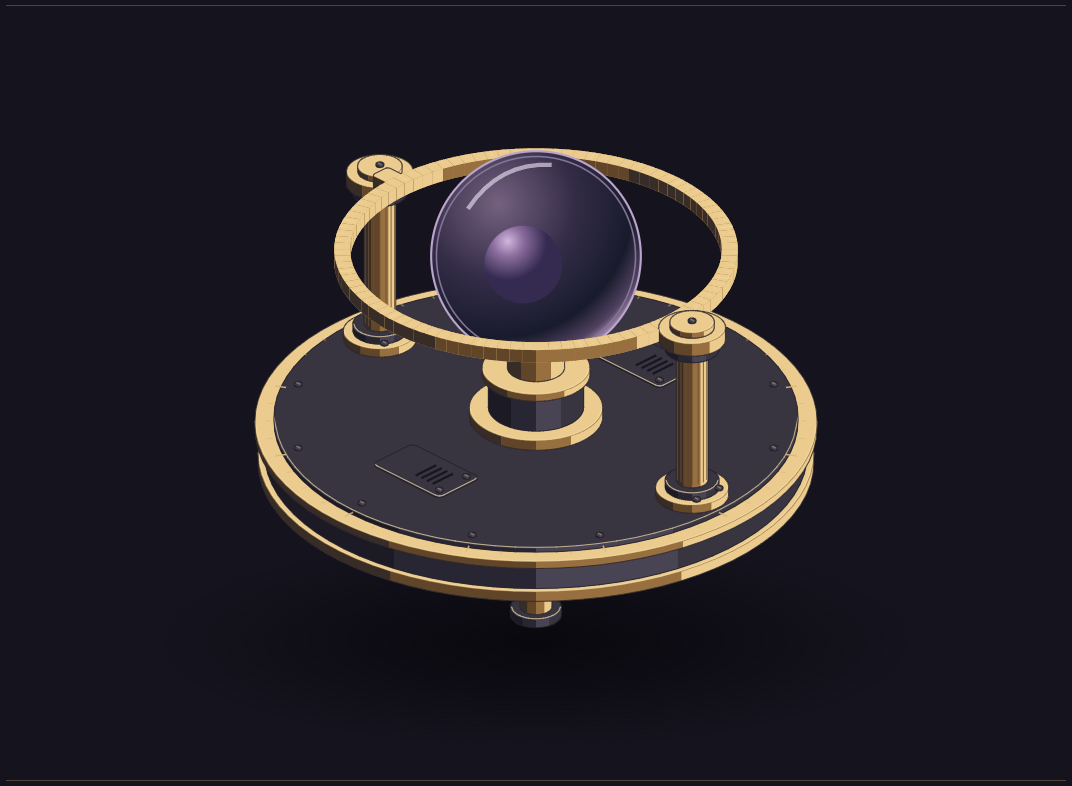
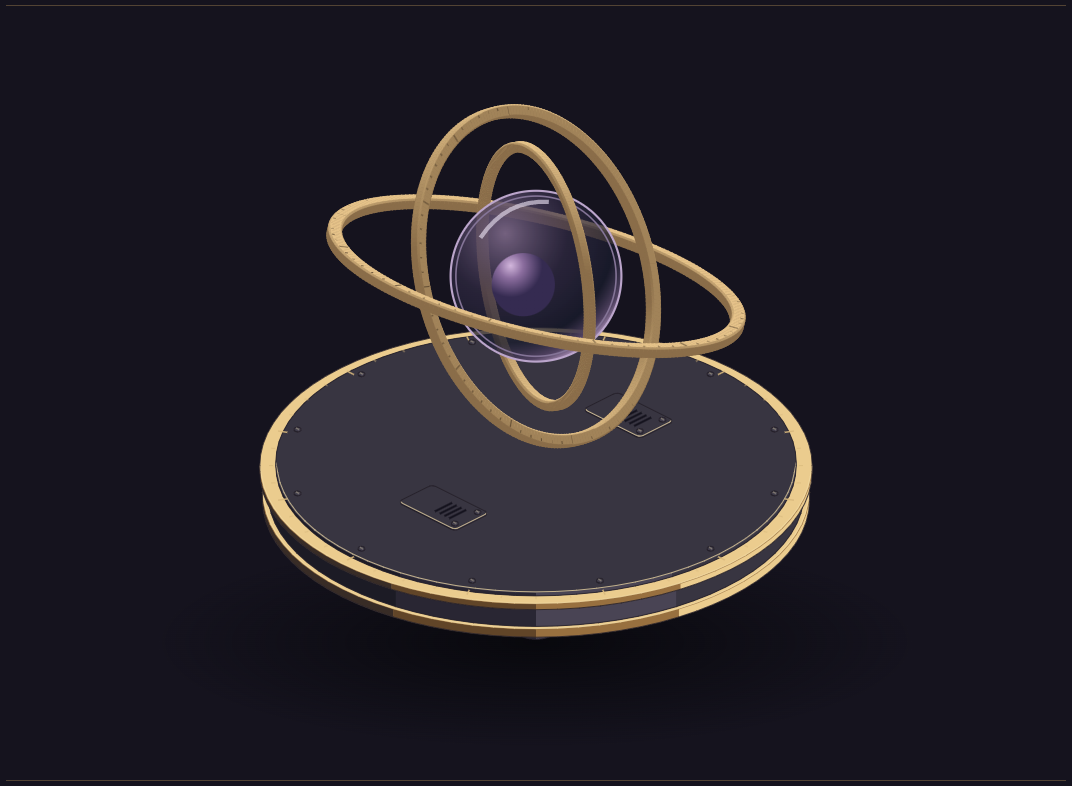
Rebuild P0 as three suspended quantum rings with logical joints and pose evidence

Changed region(s): [[0.2155, 0.1221, 0.7696, 0.8244]]

diff --git a/public/p0/index.html b/public/p0/index.html
@@ -1,5 +1,5 @@
 <!doctype html><html lang="zh-CN"><meta charset="utf-8"><meta name="viewport" content="width=device-width,initial-scale=1"><title>404 · 空间装配原型</title>
 <style>*{box-sizing:border-box}body{margin:0;background:#15131e;color:#cbb897;font-family:Georgia,serif}main{max-width:1100px;margin:auto;padding:32px 20px}header{display:flex;justify-content:space-between;gap:20px;border-bottom:1px solid #524334;padding:12px 0}h1{font-size:22px;font-weight:400;margin:0}small{letter-spacing:2px}svg{display:block;width:100%;height:auto}footer{border-top:1px solid #524334;padding:18px;font:13px/1.7 system-ui;color:#a79ab3}a{color:#dcc89e}@media(max-width:500px){main{padding:20px 8px}h1{font-size:17px}header{display:block}small{display:block;margin-top:10px}}</style>
-<main><header><h1>404号宇宙 · 星核装配台</h1><small>P0 / SPATIAL STUDY 001</small></header>
-<svg viewBox="0 0 1000 730" role="img" aria-label="四足分层底盘、双立柱轴承和有厚度的黄铜轨道包围紫色玻璃星核"><defs><radialGradient id="glass" cx="32%" cy="25%" r="80%"><stop stop-color="#74617f"/><stop offset=".46" stop-color="#332c47"/><stop offset=".8" stop-color="#181b2c"/><stop offset=".94" stop-color="#514261"/><stop offset="1" stop-color="#9c83a9"/></radialGradient><radialGradient id="planet" cx="30%" cy="20%"><stop stop-color="#d2b6dc"/><stop offset=".4" stop-color="#8b6d9e"/><stop offset="1" stop-color="#352b51"/></radialGradient><radialGradient id="shadow"><stop stop-color="#07070b" stop-opacity=".9"/><stop offset="1" stop-color="#07070b" stop-opacity="0"/></radialGradient></defs><ellipse cx="500" cy="600" rx="360" ry="100" fill="url(#shadow)"/><g id="parts"></g></svg>
-<footer>空间原型 · 方位 45° / 仰角 30° · 黄铜 / 深色钢 / 玻璃<br>此页用于检查结构与遮挡；完整互动保留在原入口。<a href="../../">返回原版</a></footer></main><script type="module" src="./stage.mjs"></script></html>
+<main><header><h1>404号宇宙 · 量子悬浮星核</h1><small>P0 / QUANTUM ORBITS / C</small></header>
+<svg viewBox="0 0 1000 730" role="img" aria-label="四足分层底盘、三层独立悬浮、不同倾角的金属星轨包围紫色玻璃星核"><defs><radialGradient id="glass" cx="32%" cy="25%" r="80%"><stop stop-color="#74617f"/><stop offset=".46" stop-color="#332c47" stop-opacity=".65"/><stop offset=".8" stop-color="#181b2c" stop-opacity=".75"/><stop offset=".94" stop-color="#514261"/><stop offset="1" stop-color="#9c83a9"/></radialGradient><radialGradient id="planet" cx="30%" cy="20%"><stop stop-color="#d2b6dc"/><stop offset=".4" stop-color="#8b6d9e"/><stop offset="1" stop-color="#352b51"/></radialGradient><radialGradient id="shadow"><stop stop-color="#07070b" stop-opacity=".9"/><stop offset="1" stop-color="#07070b" stop-opacity="0"/></radialGradient></defs><ellipse cx="500" cy="600" rx="360" ry="100" fill="url(#shadow)"/><g id="parts"></g></svg>
+<footer>空间原型 · 方位 45° / 仰角 30° · 黄铜 / 深色钢 / 玻璃<br><a href="?">交错旋转</a> · <a href="?still=1">静止观察</a> · <a href="?pose=0">姿态 A</a> · <a href="?pose=1">姿态 B</a> · <a href="?pose=2">姿态 C</a> · <a href="?audit=1">深度图：蓝后 / 紫中 / 金前</a><br>此页用于检查结构与遮挡；完整互动保留在原入口。<a href="../../">返回原版</a></footer></main><script type="module" src="./stage.mjs"></script></html>

diff --git a/docs/P0_REBUILD.md b/docs/P0_REBUILD.md
@@ -1,28 +1,17 @@
-# P0 空间原型工作记录（未验收）
+# 方案 C：中央量子悬浮
 
-基线：GitHub main `a0c23ee3208a0228df7acbbd7fbd1ec40318f24f`，2026-10-30。Git HTTPS 克隆失败后下载 main 源码归档；本地初始提交是归档快照，不能作为上游历史推送。
+本次用户选择方案 C，优先于 V2 任务书的可见机械支撑要求。
 
-## 已实现
+- 移除左右立柱、外露轴承、连接轴、中央承托件；正常和深度调试视图均不生成这些模型。
+- 保留三条完整厚金属环，环截面包含内外壁和真实倒角。三环共用星核中心和 45°/30° 相机。
+- world() 保留 X/Y/X 旋转轴和父子坐标链；每帧重新投影、着色及世界深度排序。
+- 默认交错旋转；静止观察、三种固定姿态和深度诊断通过页脚链接切换。系统减少动态时静止，离屏和后台不重建几何。
+- 纯 SVG，重建频率上限约 12.5 Hz；未验证手机帧率。后续若不够流畅应迁移网格渲染，不能称为 60 fps。
 
-- 独立预览 `/ghost-letter-404/p0/`，原 React 交互入口及 reducer 未修改。
-- `public/p0/camera.mjs`：Anatomy `fitProjection / iso / depthOf`，45° 方位、30° 仰角，统一世界坐标。
-- `public/p0/stage.mjs`：`cylinder / slabOf / extrude / knurl / segment` 实际调用；四足分层底盘、检修盖与螺钉、双柱支架、轴承连接桥、完整厚环、球形核心。
-- 环半径 127、内径半径 117、厚度 9，96 个空间扇区分别排序，实现球体前后遮挡。
-- `public/p0/vendor/iso-kit.mjs` 原样复制已安装 Anatomy 的对应模块，附原 MIT LICENSE。阅读了 craft、kit、verify 和 test-rig、raptor-engine、turning-dial 示例的相关实现。
+验证：原测试 6/6、生产构建、check-p0 和 check-rings 检查。check-rings 以精确径向包络证明三环与星核的净空对任何刚体姿态成立，且检查三个固定姿态的台面净空。环半径 155/126/98，星核半径 64。没有可见实体 joint 模型，不需要审计支撑接触。
 
-## 实测
+边界：仍未接入 Anatomy recorder/settle；逐面中心深度排序尚不能当作所有角度零冲突证明。玻璃是透射/反射分层近似，无真实折射；P0 美术仍需验收。未修改原游戏状态机或 main。
 
-- `npm ci` 成功，`npm test` 6/6，`npm run build` 成功。
-- `node scripts/check-p0.mjs`：投影高度方向、深度方向、环宽与厚度、SVG 有限值检查通过。
-- Edge 实际浏览器截图：1440×900 主图、4× 支架特写、390×844 减少动画视口；截图工具报告无控制台异常、无横向溢出。
-- 本地 `docs/visual/` 保存 baseline.png、p0-isometric-stage.png、p0-4x-closeup.png、p0-phone.png。基线截图为同宽视口的完整页面，P0 为 SVG 裁切，尚不是严格同构图 A/B。
+截图：docs/visual/p0-isometric-stage.png、p0-4x-closeup.png、p0-depth.png、p0-phone.png，以及 p0-triple-rings-poses/ 三姿态均为本轮浏览器截图。p0-before-same-camera.png 为上轮单环样件按当前相机重新截图。
 
-## 未完成，不能宣称通过验收
-
-- 现阶段仍是空间结构草模：玻璃是投影球轮廓内的材质近似，厚度与透光表现不足；金属曲面分档、环分段接缝仍可见。
-- 当前排序为底座物理层级和上层部件中心深度；未接入 Anatomy recorder/settle 的完整几何遮挡审计，不构成零穿模证明。
-- P0 为静态原型，没有轨道转动验证；本次未重跑原入口完整触屏、键盘、信件导出工作流。
-- 没有实现 P1–P3；按返工说明，P0 通过视觉验收前不得推进剧情、内室或粒子。
-- 不合并 main。此分支只能作为继续细化的草稿，不能当作已达到参考图质量的成品。
-
-启动：`npm run dev`，访问终端显示地址下的 `p0/`。独立检查也可 `python -m http.server 4173 --directory public` 后访问 `http://127.0.0.1:4173/p0/`。
+运行 npm run dev 后访问 /ghost-letter-404/p0/index.html，必须带 index.html。独立预览可 python -m http.server 4173 --directory public 后访问 /p0/index.html。
